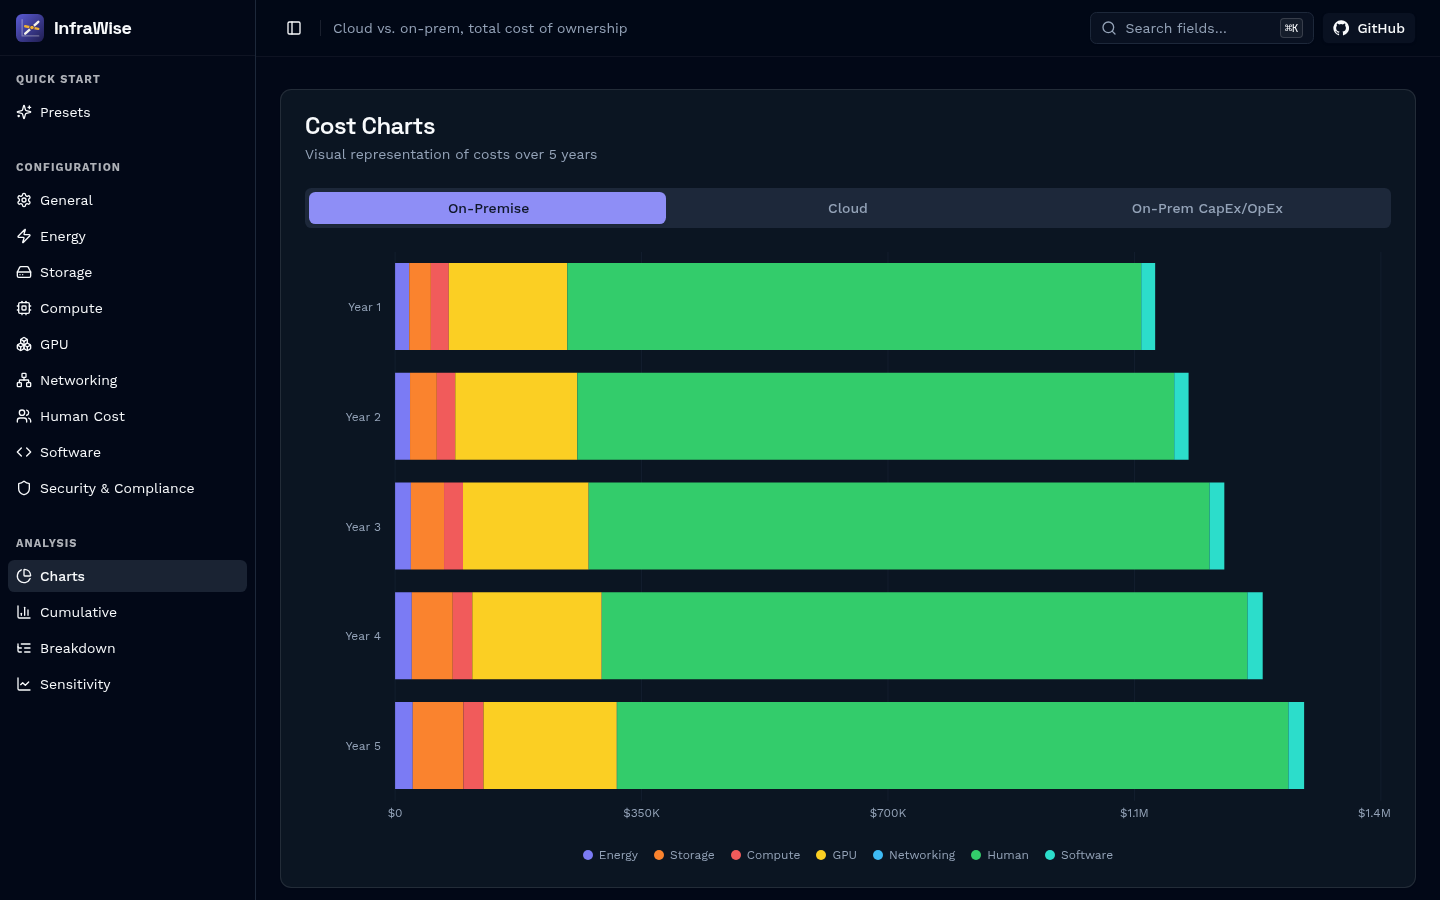
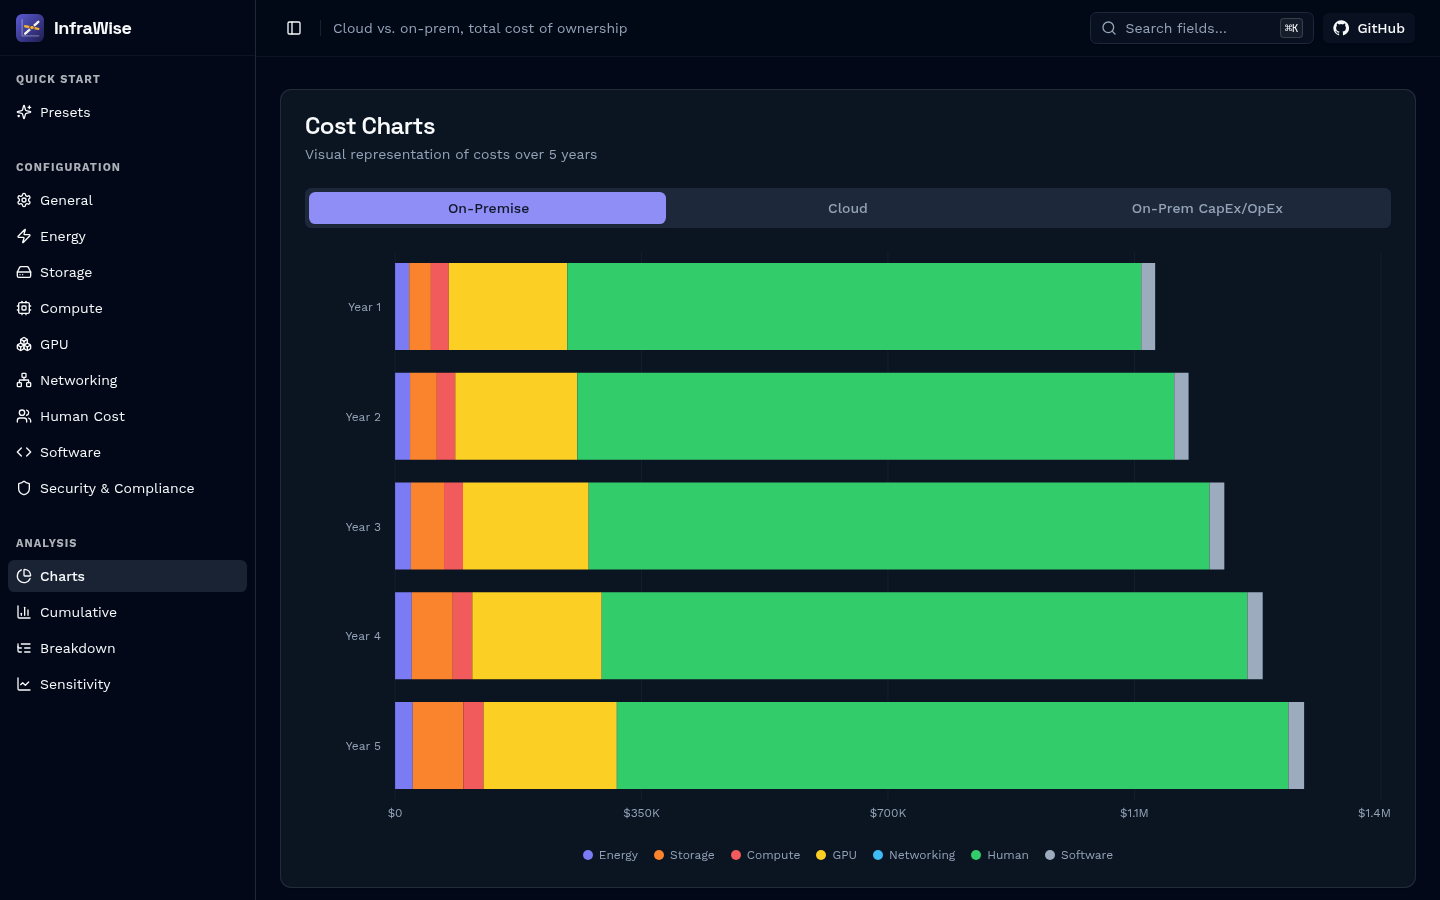
fix(ui): Software gets slate so it stands apart from Human
In light mode the two were a green and a teal of nearly the same
lightness. The README chart and GIF are re-captured.

diff --git a/src/app/globals.css b/src/app/globals.css
@@ -132,7 +132,7 @@
     --chart-4: 43 90% 46%;
     --chart-5: 199 89% 40%;
     --chart-6: 152 60% 36%;
-    --chart-7: 174 72% 32%;
+    --chart-7: 215 16% 50%;
     --chart-8: 330 70% 50%;
     --sidebar-background: 0 0% 100%;
     --sidebar-foreground: 222 47% 11%;
@@ -172,7 +172,7 @@
     --chart-4: 48 96% 56%;
     --chart-5: 199 89% 60%;
     --chart-6: 142 60% 50%;
-    --chart-7: 174 72% 52%;
+    --chart-7: 215 20% 68%;
     --chart-8: 330 80% 68%;
     --sidebar-background: 222 84% 5%;
     --sidebar-foreground: 210 40% 98%;
